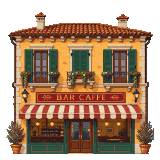
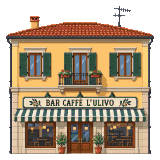
Integrate Codex's second round (PR #4) into the current art layout
lm-ufp, lm-mensa, pistoia-apartment-1 and the redone pistoia-shop-1/-2 come from
codex/palazzi-2's art/raw. The Panorama is cut from Codex's whole-facade lm-panorama:
a 4-bay repeatable module and the entrance with its sign, 9 tiles of 18.9 m. Pictures
in one building pattern now share one pixel scale. PROMPTS-NUOVE and the Codex message
list only what is still missing. tools/test/at.mjs snapshots the empty road at given
metres; $CHROME lets the tests use an installed Chrome.

diff --git a/game/layout.js b/game/layout.js
@@ -133,7 +133,7 @@ export function buildChunk(d, env) {
     const sg = Math.sign(side) || 1, g0 = sg > 0 ? segs[k0].R : segs[k0].L; if (g0 === 'water') continue;
     let edge = 0; for (let k = k0; k <= k1; k++) edge = Math.max(edge, segs[k].rw + segs[k].sw + 0.4);
     const custom = own || customFront(d.s0 + s, sg);
-    if (custom) { const pics = custom.pics || [custom.pic], at = d.s0 + s, look = i => ({ pic: pics[i % pics.length], role: 'custom', pool: null, flip: false, tint: 0 }), h = custom.hgt || 9;
+    if (custom) { const pics = custom.pics || [custom.pic], at = d.s0 + s, h = custom.hgt || 9, top = Math.max(...pics.map(q => kit.info(q).h)), look = i => ({ pic: pics[i % pics.length], role: 'custom', pool: null, flip: false, tint: 0, hgt: h * kit.info(pics[i % pics.length]).h / top });   // one pixel scale for the whole pattern: a picture without the roof sign is lower
       const setback = Math.max(edge, Math.abs(side)), p0 = { at, len: len + 0.4, side: sg * setback, hgt: h, ...look(0), depth: depth || 0, name: nm(ni), type, real: true, custom: true };
       planes.push(...splitFront(p0, 'row', look, () => h, () => custom.tile || len + 0.4)); continue; }
     const dense = denseAt(d.s0 + s) || g0 === 'pave', first = choose(type, hgt, d.s0 + s, sg, 1, dense); if (!first) continue;
@@ -228,7 +228,7 @@ export function splitFront(p, mode, chooseNext, heightFor, natural) {
       const c = chooseNext(i); if (!c) break; cur = { ...p, ...c, hgt: heightFor(c.pic, 0, at), name: null }; }
     return out; }
   const nat = natural(p.pic, p.hgt), N = clamp(Math.round(p.len / nat), 1, 60), w = p.len / N;
-  let cur = p; for (let i = 0; i < N; i++) { if (i) { const c = chooseNext(i); if (c) cur = { ...p, ...c, name: null, hgt: p.custom ? p.hgt : p.hgt * (0.9 + hrnd((p.at + i * w) * 10, 7) * 0.2) }; }   // ROX: one real building keeps one height
+  let cur = p; for (let i = 0; i < N; i++) { if (i) { const c = chooseNext(i); if (c) cur = { ...p, ...c, name: null, hgt: p.custom ? (c.hgt || p.hgt) : p.hgt * (0.9 + hrnd((p.at + i * w) * 10, 7) * 0.2) }; }   // ROX: one real building keeps one height
     out.push({ ...cur, at: p.at + i * w, len: w + (i < N - 1 ? 0.05 : 0) }); }
   return out;
 }

diff --git a/art/codex/PROMPTS-NUOVE.md b/art/codex/PROMPTS-NUOVE.md
@@ -1,61 +1,11 @@
-# Immagini nuove per ROX (21)
+# Immagini nuove per ROX (16)
 
 Solo le immagini nuove: quelle già fatte con gli altri nomi restano valide.
 
 Ogni immagine: genera con il prompt qui sotto, nel formato indicato, e salvala **esattamente** con il nome indicato in `art/codex/in/`.
 Poi: `node tools/codex-art.mjs import` e `node tools/pixel-path/scripts/clean.mjs --trip .` (vedi README).
 
-## 1. pistoia-apartment-1
-
-- Salva come: `art/codex/in/pistoia-apartment-1.png`
-- Formato: 1024x1536 (portrait)
-- Foto di riferimento: nessuna (se ne aggiungi in `art/codex/ref/pistoia-apartment-1-1.jpg` rilancia `node tools/codex-art.mjs prompts`)
-
-```
-The full front elevation of a four storey Italian condominium from the 1970s, yellow plaster, balconies with metal railings, roller shutters, seen straight on, flat front elevation, all signs blank or with invented words only, no real brand logos. Orthographic, perfectly straight-on front view: no perspective, no side walls visible, the building's base is a straight horizontal line. Setting: the modern outskirts of Pistoia today (suburban and industrial zone), not a historic town centre and not a postcard village. True 16-bit pixel art game asset: big clearly visible square pixels, crisp hard edges, no anti-aliasing, no blur, no gradients, a limited palette of flat colours, soft afternoon light from the left. Isolated on a plain pure white (#FFFFFF) background, no ground, no shadow on the ground, no sky, no scenery, no frame, no text except what is asked. The whole subject is inside the picture with a white margin on every side, nothing cut off.
-```
-
-## 2. lm-mensa
-
-- Salva come: `art/codex/in/lm-mensa.png`
-- Formato: 1536x1024 (landscape)
-- Foto di riferimento: nessuna (se ne aggiungi in `art/codex/ref/lm-mensa-1.jpg` rilancia `node tools/codex-art.mjs prompts`)
-
-```
-The Ex Mensa Sant'Agostino in Pistoia, a 1980 building by the architect Leonardo Ricci: a low wide square canteen hall whose walls are clad in horizontal courses of white and black stone and brick, a thin metal roof that seems to float like a kite above a continuous ribbon of windows running all around the top of the walls, four concrete pillars, an oversized red-painted lift tower beside it, a lower irregular service wing, as seen from the street, its full recognisable shape, seen straight on. Orthographic, perfectly straight-on front view: no perspective, no side walls visible, the building's base is a straight horizontal line. True 16-bit pixel art game asset: big clearly visible square pixels, crisp hard edges, no anti-aliasing, no blur, no gradients, a limited palette of flat colours, soft afternoon light from the left. Isolated on a plain pure white (#FFFFFF) background, no ground, no shadow on the ground, no sky, no scenery, no frame, no text except what is asked. The whole subject is inside the picture with a white margin on every side, nothing cut off.
-```
-
-## 3. lm-ufp
-
-- Salva come: `art/codex/in/lm-ufp.png`
-- Formato: 1536x1024 (landscape)
-- Foto di riferimento: nessuna (se ne aggiungi in `art/codex/ref/lm-ufp-1.jpg` rilancia `node tools/codex-art.mjs prompts`)
-
-```
-The warehouse of Utensilferramenta Pistoiese in Pistoia, a hardware wholesaler: a tall, long, windowless industrial building about 12 metres high whose wall is made of vertical ribbed precast concrete panels with slim pilasters every few metres, painted a sandy beige-ochre and weathered with dark grey rain streaks; standing on the flat roof edge, a long open metal frame like a railing carries big dark grey capital letters reading UTENSILFERRAMENTA PISTOIESE, ending on the right with a white triangular sign bearing a red UFP monogram; at ground level on the left a dark grey metal roller shutter loading door under a small flat canopy, a light aluminium scaffold tower leaning against the wall, a few orange bollards on the pavement in front, as seen from the street, its full recognisable shape, seen straight on. Orthographic, perfectly straight-on front view: no perspective, no side walls visible, the building's base is a straight horizontal line. True 16-bit pixel art game asset: big clearly visible square pixels, crisp hard edges, no anti-aliasing, no blur, no gradients, a limited palette of flat colours, soft afternoon light from the left. Isolated on a plain pure white (#FFFFFF) background, no ground, no shadow on the ground, no sky, no scenery, no frame, no text except what is asked. The whole subject is inside the picture with a white margin on every side, nothing cut off.
-```
-
-## 4. b-panorama-bay
-
-- Salva come: `art/codex/in/b-panorama-bay.png`
-- Formato: 1536x1024 (landscape)
-- Foto di riferimento: nessuna (se ne aggiungi in `art/codex/ref/b-panorama-bay-1.jpg` rilancia `node tools/codex-art.mjs prompts`)
-
-```
-The full front elevation of one 24-metre bay of the long facade of the Panorama hypermarket at the Le Tre Mura shopping centre in Pistoia: cream-white rendered wall, tall square terracotta-red pilasters at both sides joined at the top by a projecting pergola-like cornice of red beams, a band of tall glass panels with dark frames between them, slim cypress trees in front, flat roof, no sign, seen straight on, flat front elevation, all signs blank or with invented words only, no real brand logos. Orthographic, perfectly straight-on front view: no perspective, no side walls visible, the building's base is a straight horizontal line. Setting: the modern outskirts of Pistoia today (suburban and industrial zone), not a historic town centre and not a postcard village. True 16-bit pixel art game asset: big clearly visible square pixels, crisp hard edges, no anti-aliasing, no blur, no gradients, a limited palette of flat colours, soft afternoon light from the left. Isolated on a plain pure white (#FFFFFF) background, no ground, no shadow on the ground, no sky, no scenery, no frame, no text except what is asked. The whole subject is inside the picture with a white margin on every side, nothing cut off.
-```
-
-## 5. b-panorama-entrance
-
-- Salva come: `art/codex/in/b-panorama-entrance.png`
-- Formato: 1536x1024 (landscape)
-- Foto di riferimento: nessuna (se ne aggiungi in `art/codex/ref/b-panorama-entrance-1.jpg` rilancia `node tools/codex-art.mjs prompts`)
-
-```
-The full front elevation of the main entrance of the Panorama hypermarket at the Le Tre Mura shopping centre in Pistoia: a big recessed glazed entrance with sliding doors and red door frames under a projecting canopy, framed by tall terracotta-red pilasters and a pergola-like cornice of red beams, cream-white walls, and above it on the flat roof a big red sign reading PANORAMA, seen straight on, flat front elevation, all signs blank or with invented words only, no real brand logos. Orthographic, perfectly straight-on front view: no perspective, no side walls visible, the building's base is a straight horizontal line. Setting: the modern outskirts of Pistoia today (suburban and industrial zone), not a historic town centre and not a postcard village. True 16-bit pixel art game asset: big clearly visible square pixels, crisp hard edges, no anti-aliasing, no blur, no gradients, a limited palette of flat colours, soft afternoon light from the left. Isolated on a plain pure white (#FFFFFF) background, no ground, no shadow on the ground, no sky, no scenery, no frame, no text except what is asked. The whole subject is inside the picture with a white margin on every side, nothing cut off.
-```
-
-## 6. b-mural
+## 1. b-mural
 
 - Salva come: `art/codex/in/b-mural.png`
 - Formato: 1536x1024 (landscape)
@@ -65,7 +15,7 @@ The full front elevation of the main entrance of the Panorama hypermarket at the
 The full front elevation of a low wide white commercial building by a shopping centre car park in Pistoia, flat roof, its long blank wall painted with a big colourful mural of stylised red and blue figures, seen straight on, flat front elevation, all signs blank or with invented words only, no real brand logos. Orthographic, perfectly straight-on front view: no perspective, no side walls visible, the building's base is a straight horizontal line. Setting: the modern outskirts of Pistoia today (suburban and industrial zone), not a historic town centre and not a postcard village. True 16-bit pixel art game asset: big clearly visible square pixels, crisp hard edges, no anti-aliasing, no blur, no gradients, a limited palette of flat colours, soft afternoon light from the left. Isolated on a plain pure white (#FFFFFF) background, no ground, no shadow on the ground, no sky, no scenery, no frame, no text except what is asked. The whole subject is inside the picture with a white margin on every side, nothing cut off.
 ```
 
-## 7. b-villa-a
+## 2. b-villa-a
 
 - Salva come: `art/codex/in/b-villa-a.png`
 - Formato: 1536x1024 (landscape)
@@ -75,7 +25,7 @@ The full front elevation of a low wide white commercial building by a shopping c
 The full front elevation of a three-storey cream-white Italian villa from the 1970s with a terracotta tile hip roof, balconies with white railings, brown roller shutters, a low garden wall and a gate in front, seen straight on, flat front elevation, all signs blank or with invented words only, no real brand logos. Orthographic, perfectly straight-on front view: no perspective, no side walls visible, the building's base is a straight horizontal line. Setting: the modern outskirts of Pistoia today (suburban and industrial zone), not a historic town centre and not a postcard village. True 16-bit pixel art game asset: big clearly visible square pixels, crisp hard edges, no anti-aliasing, no blur, no gradients, a limited palette of flat colours, soft afternoon light from the left. Isolated on a plain pure white (#FFFFFF) background, no ground, no shadow on the ground, no sky, no scenery, no frame, no text except what is asked. The whole subject is inside the picture with a white margin on every side, nothing cut off.
 ```
 
-## 8. b-villa-b
+## 3. b-villa-b
 
 - Salva come: `art/codex/in/b-villa-b.png`
 - Formato: 1536x1024 (landscape)
@@ -85,7 +35,7 @@ The full front elevation of a three-storey cream-white Italian villa from the 19
 The full front elevation of a two-storey Italian family house with pale yellow plaster, a red tile roof, green wooden shutters, a hedge and a gate in front, seen straight on, flat front elevation, all signs blank or with invented words only, no real brand logos. Orthographic, perfectly straight-on front view: no perspective, no side walls visible, the building's base is a straight horizontal line. Setting: the modern outskirts of Pistoia today (suburban and industrial zone), not a historic town centre and not a postcard village. True 16-bit pixel art game asset: big clearly visible square pixels, crisp hard edges, no anti-aliasing, no blur, no gradients, a limited palette of flat colours, soft afternoon light from the left. Isolated on a plain pure white (#FFFFFF) background, no ground, no shadow on the ground, no sky, no scenery, no frame, no text except what is asked. The whole subject is inside the picture with a white margin on every side, nothing cut off.
 ```
 
-## 9. b-condo-a
+## 4. b-condo-a
 
 - Salva come: `art/codex/in/b-condo-a.png`
 - Formato: 1536x1024 (landscape)
@@ -95,7 +45,7 @@ The full front elevation of a two-storey Italian family house with pale yellow p
 The full front elevation of a modern four-storey Italian apartment block from the 2000s: facade of red brick with white rendered parts, balconies with glass railings, a low pitched grey-green roof, seen straight on, flat front elevation, all signs blank or with invented words only, no real brand logos. Orthographic, perfectly straight-on front view: no perspective, no side walls visible, the building's base is a straight horizontal line. Setting: the modern outskirts of Pistoia today (suburban and industrial zone), not a historic town centre and not a postcard village. True 16-bit pixel art game asset: big clearly visible square pixels, crisp hard edges, no anti-aliasing, no blur, no gradients, a limited palette of flat colours, soft afternoon light from the left. Isolated on a plain pure white (#FFFFFF) background, no ground, no shadow on the ground, no sky, no scenery, no frame, no text except what is asked. The whole subject is inside the picture with a white margin on every side, nothing cut off.
 ```
 
-## 10. b-condo-b
+## 5. b-condo-b
 
 - Salva come: `art/codex/in/b-condo-b.png`
 - Formato: 1536x1024 (landscape)
@@ -105,7 +55,7 @@ The full front elevation of a modern four-storey Italian apartment block from th
 The full front elevation of a modern four-storey Italian apartment block with salmon-pink and white render, long balconies with metal railings, a grey roof, a row of parked cars in front, seen straight on, flat front elevation, all signs blank or with invented words only, no real brand logos. Orthographic, perfectly straight-on front view: no perspective, no side walls visible, the building's base is a straight horizontal line. Setting: the modern outskirts of Pistoia today (suburban and industrial zone), not a historic town centre and not a postcard village. True 16-bit pixel art game asset: big clearly visible square pixels, crisp hard edges, no anti-aliasing, no blur, no gradients, a limited palette of flat colours, soft afternoon light from the left. Isolated on a plain pure white (#FFFFFF) background, no ground, no shadow on the ground, no sky, no scenery, no frame, no text except what is asked. The whole subject is inside the picture with a white margin on every side, nothing cut off.
 ```
 
-## 11. b-petrol
+## 6. b-petrol
 
 - Salva come: `art/codex/in/b-petrol.png`
 - Formato: 1536x1024 (landscape)
@@ -115,7 +65,7 @@ The full front elevation of a modern four-storey Italian apartment block with sa
 The full front elevation of a small Italian petrol station seen from the road: a flat white canopy on slim pillars over two fuel pumps, a small shop kiosk, a tall price totem with blank panels, seen straight on, flat front elevation, all signs blank or with invented words only, no real brand logos. Orthographic, perfectly straight-on front view: no perspective, no side walls visible, the building's base is a straight horizontal line. Setting: the modern outskirts of Pistoia today (suburban and industrial zone), not a historic town centre and not a postcard village. True 16-bit pixel art game asset: big clearly visible square pixels, crisp hard edges, no anti-aliasing, no blur, no gradients, a limited palette of flat colours, soft afternoon light from the left. Isolated on a plain pure white (#FFFFFF) background, no ground, no shadow on the ground, no sky, no scenery, no frame, no text except what is asked. The whole subject is inside the picture with a white margin on every side, nothing cut off.
 ```
 
-## 12. b-brick-shed
+## 7. b-brick-shed
 
 - Salva come: `art/codex/in/b-brick-shed.png`
 - Formato: 1536x1024 (landscape)
@@ -125,7 +75,7 @@ The full front elevation of a small Italian petrol station seen from the road: a
 The full front elevation of a small old Tuscan farm outbuilding of exposed red brick with a terracotta roof and a round-arched doorway, seen straight on, flat front elevation, all signs blank or with invented words only, no real brand logos. Orthographic, perfectly straight-on front view: no perspective, no side walls visible, the building's base is a straight horizontal line. Setting: the modern outskirts of Pistoia today (suburban and industrial zone), not a historic town centre and not a postcard village. True 16-bit pixel art game asset: big clearly visible square pixels, crisp hard edges, no anti-aliasing, no blur, no gradients, a limited palette of flat colours, soft afternoon light from the left. Isolated on a plain pure white (#FFFFFF) background, no ground, no shadow on the ground, no sky, no scenery, no frame, no text except what is asked. The whole subject is inside the picture with a white margin on every side, nothing cut off.
 ```
 
-## 13. b-garden-wall
+## 8. b-garden-wall
 
 - Salva come: `art/codex/in/b-garden-wall.png`
 - Formato: 1536x1024 (landscape)
@@ -135,7 +85,7 @@ The full front elevation of a small old Tuscan farm outbuilding of exposed red b
 The full front elevation of a long low garden wall of white-grey rendered concrete with a terracotta tile coping and a small iron gate, roofs of low sheds just showing behind it, seen straight on, flat front elevation, all signs blank or with invented words only, no real brand logos. Orthographic, perfectly straight-on front view: no perspective, no side walls visible, the building's base is a straight horizontal line. Setting: the modern outskirts of Pistoia today (suburban and industrial zone), not a historic town centre and not a postcard village. True 16-bit pixel art game asset: big clearly visible square pixels, crisp hard edges, no anti-aliasing, no blur, no gradients, a limited palette of flat colours, soft afternoon light from the left. Isolated on a plain pure white (#FFFFFF) background, no ground, no shadow on the ground, no sky, no scenery, no frame, no text except what is asked. The whole subject is inside the picture with a white margin on every side, nothing cut off.
 ```
 
-## 14. b-house-white
+## 9. b-house-white
 
 - Salva come: `art/codex/in/b-house-white.png`
 - Formato: 1536x1024 (landscape)
@@ -145,7 +95,7 @@ The full front elevation of a long low garden wall of white-grey rendered concre
 The full front elevation of a two-storey white rendered Italian house with a red tile roof, brown shutters, partly behind small trees, seen straight on, flat front elevation, all signs blank or with invented words only, no real brand logos. Orthographic, perfectly straight-on front view: no perspective, no side walls visible, the building's base is a straight horizontal line. Setting: the modern outskirts of Pistoia today (suburban and industrial zone), not a historic town centre and not a postcard village. True 16-bit pixel art game asset: big clearly visible square pixels, crisp hard edges, no anti-aliasing, no blur, no gradients, a limited palette of flat colours, soft afternoon light from the left. Isolated on a plain pure white (#FFFFFF) background, no ground, no shadow on the ground, no sky, no scenery, no frame, no text except what is asked. The whole subject is inside the picture with a white margin on every side, nothing cut off.
 ```
 
-## 15. b-long-shed
+## 10. b-long-shed
 
 - Salva come: `art/codex/in/b-long-shed.png`
 - Formato: 1536x1024 (landscape)
@@ -155,7 +105,7 @@ The full front elevation of a two-storey white rendered Italian house with a red
 The full front elevation of one section of a long low agricultural shed of a plant nursery near Pistoia: grey rendered walls, a shallow roof of corrugated sheets, a wide sliding door, seen straight on, flat front elevation, all signs blank or with invented words only, no real brand logos. Orthographic, perfectly straight-on front view: no perspective, no side walls visible, the building's base is a straight horizontal line. Setting: the modern outskirts of Pistoia today (suburban and industrial zone), not a historic town centre and not a postcard village. True 16-bit pixel art game asset: big clearly visible square pixels, crisp hard edges, no anti-aliasing, no blur, no gradients, a limited palette of flat colours, soft afternoon light from the left. Isolated on a plain pure white (#FFFFFF) background, no ground, no shadow on the ground, no sky, no scenery, no frame, no text except what is asked. The whole subject is inside the picture with a white margin on every side, nothing cut off.
 ```
 
-## 16. b-farmhouse-orange
+## 11. b-farmhouse-orange
 
 - Salva come: `art/codex/in/b-farmhouse-orange.png`
 - Formato: 1536x1024 (landscape)
@@ -165,7 +115,7 @@ The full front elevation of one section of a long low agricultural shed of a pla
 The full front elevation of a two-storey Tuscan farmhouse with orange-terracotta plaster, a hipped terracotta roof, white window frames with brown shutters, a low wall and a garden in front, seen straight on, flat front elevation, all signs blank or with invented words only, no real brand logos. Orthographic, perfectly straight-on front view: no perspective, no side walls visible, the building's base is a straight horizontal line. Setting: the modern outskirts of Pistoia today (suburban and industrial zone), not a historic town centre and not a postcard village. True 16-bit pixel art game asset: big clearly visible square pixels, crisp hard edges, no anti-aliasing, no blur, no gradients, a limited palette of flat colours, soft afternoon light from the left. Isolated on a plain pure white (#FFFFFF) background, no ground, no shadow on the ground, no sky, no scenery, no frame, no text except what is asked. The whole subject is inside the picture with a white margin on every side, nothing cut off.
 ```
 
-## 17. b-farmhouse-brick
+## 12. b-farmhouse-brick
 
 - Salva come: `art/codex/in/b-farmhouse-brick.png`
 - Formato: 1536x1024 (landscape)
@@ -175,7 +125,7 @@ The full front elevation of a two-storey Tuscan farmhouse with orange-terracotta
 The full front elevation of an old two-storey Tuscan farmhouse of red brick with a terracotta roof and small windows with shutters, seen straight on, flat front elevation, all signs blank or with invented words only, no real brand logos. Orthographic, perfectly straight-on front view: no perspective, no side walls visible, the building's base is a straight horizontal line. Setting: the modern outskirts of Pistoia today (suburban and industrial zone), not a historic town centre and not a postcard village. True 16-bit pixel art game asset: big clearly visible square pixels, crisp hard edges, no anti-aliasing, no blur, no gradients, a limited palette of flat colours, soft afternoon light from the left. Isolated on a plain pure white (#FFFFFF) background, no ground, no shadow on the ground, no sky, no scenery, no frame, no text except what is asked. The whole subject is inside the picture with a white margin on every side, nothing cut off.
 ```
 
-## 18. b-grey-shed
+## 13. b-grey-shed
 
 - Salva come: `art/codex/in/b-grey-shed.png`
 - Formato: 1536x1024 (landscape)
@@ -185,7 +135,7 @@ The full front elevation of an old two-storey Tuscan farmhouse of red brick with
 The full front elevation of one bay of a long grey prefabricated industrial building in the Sant'Agostino industrial zone of Pistoia: ribbed grey concrete panels, a row of small high strip windows, a flat roof, a grey metal fence in front, seen straight on, flat front elevation, all signs blank or with invented words only, no real brand logos. Orthographic, perfectly straight-on front view: no perspective, no side walls visible, the building's base is a straight horizontal line. Setting: the modern outskirts of Pistoia today (suburban and industrial zone), not a historic town centre and not a postcard village. True 16-bit pixel art game asset: big clearly visible square pixels, crisp hard edges, no anti-aliasing, no blur, no gradients, a limited palette of flat colours, soft afternoon light from the left. Isolated on a plain pure white (#FFFFFF) background, no ground, no shadow on the ground, no sky, no scenery, no frame, no text except what is asked. The whole subject is inside the picture with a white margin on every side, nothing cut off.
 ```
 
-## 19. b-lattice
+## 14. b-lattice
 
 - Salva come: `art/codex/in/b-lattice.png`
 - Formato: 1536x1024 (landscape)
@@ -195,7 +145,7 @@ The full front elevation of one bay of a long grey prefabricated industrial buil
 The full front elevation of a modern commercial building whose facade is covered by a big grid of red-orange slats like a lattice, glass behind it, a flat roof, seen straight on, flat front elevation, all signs blank or with invented words only, no real brand logos. Orthographic, perfectly straight-on front view: no perspective, no side walls visible, the building's base is a straight horizontal line. Setting: the modern outskirts of Pistoia today (suburban and industrial zone), not a historic town centre and not a postcard village. True 16-bit pixel art game asset: big clearly visible square pixels, crisp hard edges, no anti-aliasing, no blur, no gradients, a limited palette of flat colours, soft afternoon light from the left. Isolated on a plain pure white (#FFFFFF) background, no ground, no shadow on the ground, no sky, no scenery, no frame, no text except what is asked. The whole subject is inside the picture with a white margin on every side, nothing cut off.
 ```
 
-## 20. b-white-shed
+## 15. b-white-shed
 
 - Salva come: `art/codex/in/b-white-shed.png`
 - Formato: 1536x1024 (landscape)
@@ -205,7 +155,7 @@ The full front elevation of a modern commercial building whose facade is covered
 The full front elevation of a low white industrial building behind a stone wall with a black iron fence, a palm tree and olive trees in front, seen straight on, flat front elevation, all signs blank or with invented words only, no real brand logos. Orthographic, perfectly straight-on front view: no perspective, no side walls visible, the building's base is a straight horizontal line. Setting: the modern outskirts of Pistoia today (suburban and industrial zone), not a historic town centre and not a postcard village. True 16-bit pixel art game asset: big clearly visible square pixels, crisp hard edges, no anti-aliasing, no blur, no gradients, a limited palette of flat colours, soft afternoon light from the left. Isolated on a plain pure white (#FFFFFF) background, no ground, no shadow on the ground, no sky, no scenery, no frame, no text except what is asked. The whole subject is inside the picture with a white margin on every side, nothing cut off.
 ```
 
-## 21. b-ufp-side
+## 16. b-ufp-side
 
 - Salva come: `art/codex/in/b-ufp-side.png`
 - Formato: 1536x1024 (landscape)

diff --git a/art/codex/MESSAGGIO-CODEX.md b/art/codex/MESSAGGIO-CODEX.md
@@ -10,17 +10,19 @@ Leggi prima:
 - art/codex/REFERENCE.md (com'è davvero la strada e il giudizio sulle immagini già fatte)
 - art/codex/ref/README.md (le foto di riferimento)
 
+Parti dal branch main aggiornato (git checkout main && git pull), non da altri branch: la volta scorsa la PR partiva da un branch vecchio e non si poteva unire.
+
 Poi:
 
 1. Esegui:
      node tools/codex-art.mjs prompts
-     node tools/codex-art.mjs prompts --only pistoia-apartment-1,lm-mensa,lm-ufp,b-panorama-bay,b-panorama-entrance,b-mural,b-villa-a,b-villa-b,b-condo-a,b-condo-b,b-petrol,b-brick-shed,b-garden-wall,b-house-white,b-long-shed,b-farmhouse-orange,b-farmhouse-brick,b-grey-shed,b-lattice,b-white-shed,b-ufp-side --out art/codex/PROMPTS-NUOVE.md
+     node tools/codex-art.mjs prompts --only b-mural,b-villa-a,b-villa-b,b-condo-a,b-condo-b,b-petrol,b-brick-shed,b-garden-wall,b-house-white,b-long-shed,b-farmhouse-orange,b-farmhouse-brick,b-grey-shed,b-lattice,b-white-shed,b-ufp-side --out art/codex/PROMPTS-NUOVE.md
    Così i prompt includono le eventuali foto in art/codex/ref/.
 
 2. Genera le immagini di art/codex/PROMPTS-NUOVE.md con il tuo strumento di generazione immagini, usando ESATTAMENTE il prompt e il formato indicati, e salvale come PNG nel percorso indicato (art/codex/in/<nome>.png), senza ridimensionarle.
-   Quando per un'immagine sono indicate delle foto di riferimento, passale allo strumento come immagini di riferimento e aggiungi al prompt la frase indicata: l'edificio deve somigliare a quello della foto (forma, piani, colori, materiali, finestre, porte, insegne), raddrizzato in vista frontale. Senza foto, segui con cura la descrizione dell'edificio vero che è nel prompt: ogni b-* è un edificio preciso della strada (vedi art/buildings-custom.json e art/codex/REFERENCE.md), b-panorama-* e lm-ufp sono il Panorama e Utensilferramenta. Non inventare dettagli che la contraddicono. b-panorama-bay, b-panorama-entrance, b-ufp-side e lm-ufp ora sono disegni provvisori fatti dal codice: le tue immagini li sostituiscono. b-panorama-bay deve potersi ripetere uno accanto all'altro (i due bordi laterali uguali, un pilastro per lato).
+   Quando per un'immagine sono indicate delle foto di riferimento, passale allo strumento come immagini di riferimento e aggiungi al prompt la frase indicata: l'edificio deve somigliare a quello della foto (forma, piani, colori, materiali, finestre, porte, insegne), raddrizzato in vista frontale. Senza foto, segui con cura la descrizione dell'edificio vero che è nel prompt: ogni b-* è un edificio preciso della strada (vedi art/buildings-custom.json e art/codex/REFERENCE.md), b-panorama-* e lm-ufp sono il Panorama e Utensilferramenta. Non inventare dettagli che la contraddicono. b-ufp-side ora è un disegno provvisorio fatto dal codice: la tua immagine lo sostituisce. Il Panorama, Utensilferramenta (lm-ufp) e la Mensa (lm-mensa) sono già a posto: non rifarli.
 
-3. Controlla le immagini già fatte (art/pistoia-*.png) confrontandole con art/codex/REFERENCE.md e con le foto della strada in art/codex/ref/strada-*.jpg, se ci sono. Rigenera con il prompt di art/codex/PROMPTS.md quelle che REFERENCE.md segna "da rifare" e quelle che secondo te non sembrano la periferia di Pistoia (per esempio da centro storico o da cartolina). Le altre lasciale stare.
+3. Controlla le immagini già fatte (art/pistoia-*.png) confrontandole con art/codex/REFERENCE.md e con le foto della strada in art/codex/ref/strada-*.jpg, se ci sono. Rigenera con il prompt di art/codex/PROMPTS.md quelle che secondo te non sembrano la periferia di Pistoia (per esempio da centro storico o da cartolina). Le altre lasciale stare.
 
 4. Esegui:
      node tools/codex-art.mjs import
@@ -32,7 +34,7 @@ Poi:
    - con due edifici in una;
    - con loghi di marche vere (l'insegna di Utensilferramenta nella foto va bene).
 
-5. Crea un branch chiamato codex/palazzi-2. Fai commit di art/raw/, di tutti i file art/*.png, di art/kit.json e dei due file PROMPTS (NON di art/codex/in/). Apri una pull request verso main.
+5. Crea un branch chiamato codex/palazzi-3. Fai commit di art/raw/, di tutti i file art/*.png, di art/kit.json e dei due file PROMPTS (NON di art/codex/in/). Apri una pull request verso main.
 
 6. Nella descrizione della pull request scrivi:
    - quali immagini hai generato o rigenerato e perché;

diff --git a/art/codex/PROMPTS.md b/art/codex/PROMPTS.md
@@ -170,7 +170,7 @@ The warehouse of Utensilferramenta Pistoiese in Pistoia, a hardware wholesaler: 
 - Foto di riferimento: nessuna (se ne aggiungi in `art/codex/ref/b-panorama-bay-1.jpg` rilancia `node tools/codex-art.mjs prompts`)
 
 ```
-The full front elevation of one 24-metre bay of the long facade of the Panorama hypermarket at the Le Tre Mura shopping centre in Pistoia: cream-white rendered wall, tall square terracotta-red pilasters at both sides joined at the top by a projecting pergola-like cornice of red beams, a band of tall glass panels with dark frames between them, slim cypress trees in front, flat roof, no sign, seen straight on, flat front elevation, all signs blank or with invented words only, no real brand logos. Orthographic, perfectly straight-on front view: no perspective, no side walls visible, the building's base is a straight horizontal line. Setting: the modern outskirts of Pistoia today (suburban and industrial zone), not a historic town centre and not a postcard village. True 16-bit pixel art game asset: big clearly visible square pixels, crisp hard edges, no anti-aliasing, no blur, no gradients, a limited palette of flat colours, soft afternoon light from the left. Isolated on a plain pure white (#FFFFFF) background, no ground, no shadow on the ground, no sky, no scenery, no frame, no text except what is asked. The whole subject is inside the picture with a white margin on every side, nothing cut off.
+The full front elevation of a 19-metre stretch (four pilaster bays) of the long facade of the Panorama hypermarket at the Le Tre Mura shopping centre in Pistoia: cream-white rendered wall, tall square terracotta-red pilasters at both sides joined at the top by a projecting pergola-like cornice of red beams, a band of tall glass panels with dark frames between them, slim cypress trees in front, flat roof, no sign, seen straight on, flat front elevation, all signs blank or with invented words only, no real brand logos. Orthographic, perfectly straight-on front view: no perspective, no side walls visible, the building's base is a straight horizontal line. Setting: the modern outskirts of Pistoia today (suburban and industrial zone), not a historic town centre and not a postcard village. True 16-bit pixel art game asset: big clearly visible square pixels, crisp hard edges, no anti-aliasing, no blur, no gradients, a limited palette of flat colours, soft afternoon light from the left. Isolated on a plain pure white (#FFFFFF) background, no ground, no shadow on the ground, no sky, no scenery, no frame, no text except what is asked. The whole subject is inside the picture with a white margin on every side, nothing cut off.
 ```
 
 ## 18. b-panorama-entrance

diff --git a/CLAUDE.md b/CLAUDE.md
@@ -29,13 +29,14 @@ Italian. Read `NEXT_SESSION.md` first: it has the state, the decisions taken wit
   pins for the Panorama and UFP), then set the `from`/`to` names in route.json before baking. A 1.1 km shortcut straight
   down Via Bure Vecchia Nord was tried and dropped: it is not the road they drive.
 - `art/`: scenery kit (`kit.json`, PNGs), `plan.json`, `raw/` (pixelated inputs of clean.mjs), `codex/` (prompts,
-  `REFERENCE.md` with the real road, `ref/` reference photos, `MESSAGGIO-CODEX.md`). 11 pictures are real (Codex, first
-  round, 3 of them recovered from the closed PR #3); `pistoia-apartment-1`, `lm-panorama` and `lm-mensa` are placeholders. `lm-ufp` is a stand-in drawn by
-  `game/sprites.js` from a description of the real building (`node tools/ufp-standin.mjs` writes it to art/raw, needs the
-  local server); a Codex picture imported later replaces it. Codex's first, invented warehouse (`extra-ufp`) is gone.
+  `REFERENCE.md` with the real road, `ref/` reference photos, `MESSAGGIO-CODEX.md`). All 14 `pistoia-*` and both
+  landmarks are real Codex pictures (two rounds; the second came as PR #4, imported by hand and closed because it was
+  based on an old branch). The Panorama's `b-panorama-bay` (four pilaster bays, repeats) and `b-panorama-entrance` were
+  cut from Codex's whole-facade `lm-panorama` (no longer used). `tools/ufp-standin.mjs` (the code-drawn `lm-ufp`) is
+  only a fallback now. Codex's first, invented warehouse (`extra-ufp`) is gone.
 - Real buildings: `art/buildings-custom.json` gives mapped buildings their own picture (matched by [s, side] within
   6 m), adds ones the map lacks (`add`: the Panorama, 170 m of facade along the car park lane, a pattern of `pics`
-  repeated every `tile` metres) and fixes land (`land`: the car park is `lot`). `node tools/buildings.mjs` (run by
+  repeated every `tile` metres; the pictures of one pattern share one pixel scale, so one without the roof sign stands lower) and fixes land (`land`: the car park is `lot`). `node tools/buildings.mjs` (run by
   plan-art.sh) writes `data/buildings.json` (road.js loads it as `env.buildings`, layout.js applies it) and adds role
   `custom` jobs to plan.json, never used by the generic kit. Placeholders are ignored, so a building keeps its generic
   look until its picture is real. `node tools/standins.mjs` draws code stand-ins for the Panorama and UFP's second

diff --git a/art/codex/REFERENCE.md b/art/codex/REFERENCE.md
@@ -37,16 +37,21 @@ un **cartello triangolare bianco col monogramma rosso UFP**. In basso a sinistra
 sotto una piccola pensilina, un **trabattello di alluminio** appoggiato al muro, paletti arancioni sul marciapiede.
 Accanto c'è una palazzina di uffici color mattone con una vetrata blu.
 
-## Le immagini già fatte (primo giro di Codex), da ricontrollare
+## Le immagini già fatte (due giri di Codex), da ricontrollare
 
 | immagine | giudizio |
 | --- | --- |
-| `pistoia-shop-1` (negozio "La Bottega" con archi) | troppo centro storico: da rifare più periferico |
-| `pistoia-shop-2` (bar caffè su palazzina con persiane) | accettabile, un po' da cartolina |
+| `pistoia-shop-1` (negozio a un piano con vetrina, secondo giro) | va bene |
+| `pistoia-shop-2` (bar caffè su palazzina, secondo giro) | accettabile, ancora un po' da cartolina |
+| `pistoia-apartment-1` (condominio giallo di quattro piani) | va bene |
 | `pistoia-house-1`, `-2`, `-3` (villette intonacate) | vanno bene |
 | `pistoia-farm-1` (casa colonica) | va bene: lungo Via Bure Vecchia Nord ce n'è una in mattoni rossi |
 | `pistoia-tower-1` (condominio alto) | va bene |
 | `pistoia-industrial-1`, `-2` (capannoni) | vanno bene, sono il tipo più presente |
 | `pistoia-tree-1` (cipresso), `pistoia-tree-2` (pino a ombrello) | vanno bene |
 | `pistoia-bush-1` (pianta in vaso), `pistoia-street-1` (cassonetto) | vanno bene |
-| `lm-ufp` (disegnato dal codice dalla descrizione qui sopra) | segnaposto fedele ma semplice: da rifare in pixel art più ricca |
+| `lm-ufp` (capannone a costoloni con la scritta sul tetto) | molto fedele: va bene |
+| `lm-mensa` (Ex Mensa, torre rossa) | va bene |
+| `b-panorama-bay`, `b-panorama-entrance` | ritagliate dal `lm-panorama` di Codex (4 campate ripetibili e l'ingresso con l'insegna): vanno bene |
+| `b-ufp-side` (secondo capannone di Utensilferramenta) | disegno provvisorio fatto dal codice: da rifare |
+| tutte le altre `b-*` | mancano: finché non ci sono, l'edificio usa un'immagine generica |
